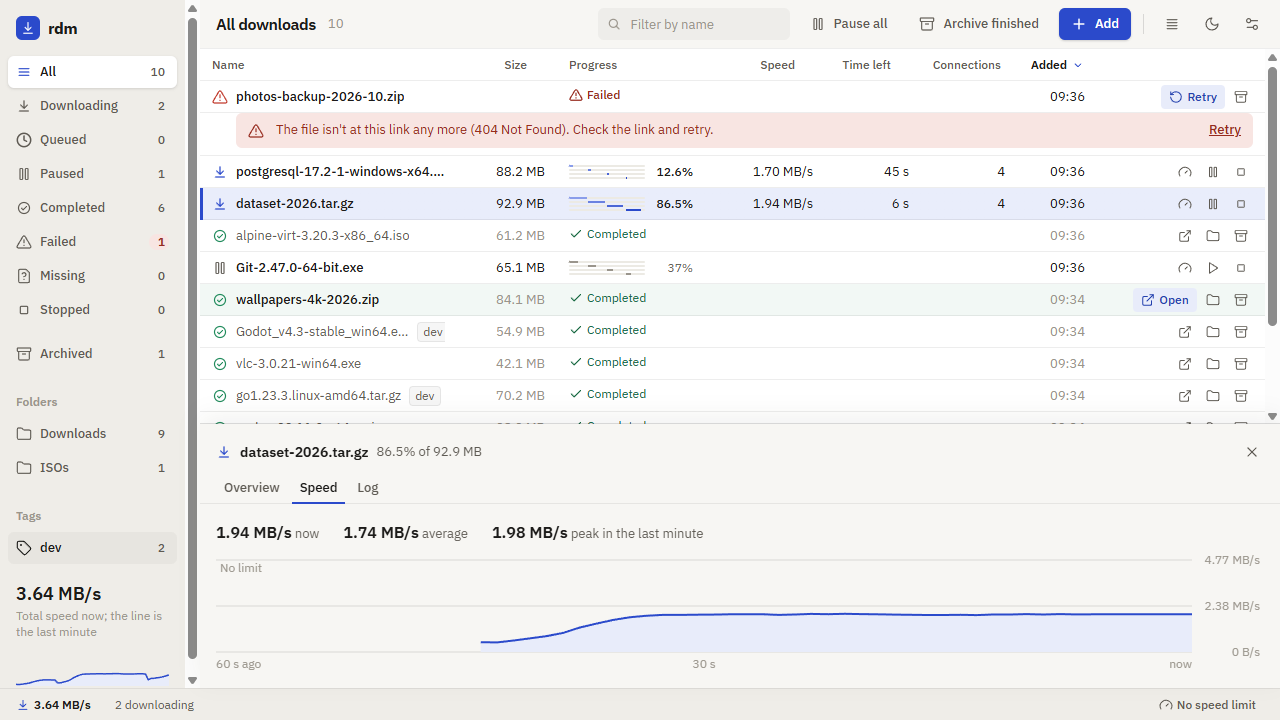
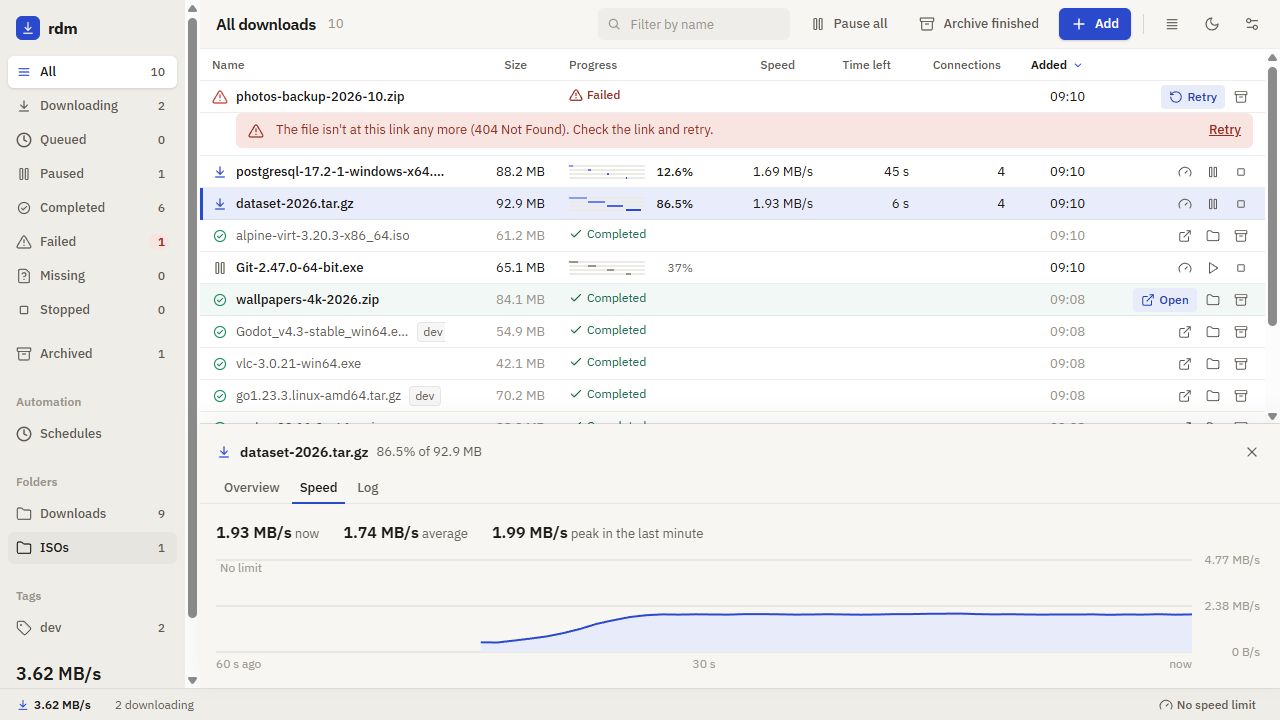
docs: regenerate screenshots with the Schedules view
Regenerate main-light, main-dark and details (new Automation group) and add
schedules.png. Seed the Schedules shot's rules in MiB and reload the page
after seeding so the view shows them.

diff --git a/gui/e2e/screenshots/schedules.shots.ts b/gui/e2e/screenshots/schedules.shots.ts
@@ -6,7 +6,7 @@
 import { mkdirSync } from "node:fs";
 import path from "node:path";
 import { $, browser } from "@wdio/globals";
-import { baseUrl, invoke } from "../helpers";
+import { baseUrl, invoke, settingsButton, waitForGone } from "../helpers";
 
 const outDir = process.env.RDM_SHOTS_OUT!;
 const WEEKDAYS = ["mon", "tue", "wed", "thu", "fri"];
@@ -44,7 +44,7 @@ describe("schedules screenshot", () => {
             name: "Daytime cap",
             enabled: true,
             window: { start: "08:00", end: "18:00", days: WEEKDAYS },
-            limit: 5 * 1000 * 1000,
+            limit: 5 * 1024 * 1024,
           },
         ],
       },
@@ -68,6 +68,18 @@ describe("schedules screenshot", () => {
         startAt,
       });
     }
+    // invoke() doesn't wait for the command, and the view reads the rules when it opens: give
+    // them a moment, then open the view.
+    await browser.pause(1000);
+    await settingsButton().click();
+    const theme = $('[role="group"][aria-label="Theme"]');
+    await theme.waitForDisplayed();
+    await theme.$("button=Light").click();
+    await settingsButton().click();
+    await waitForGone('[role="group"][aria-label="Theme"]');
+    // The page read its rules and actions at startup; reload so it shows the ones seeded above.
+    await browser.refresh();
+    await $('[data-testid="add-button"]').waitForDisplayed();
     await $('[data-testid="schedules-link"]').click();
     await $('[data-testid="schedules-view"]').waitForDisplayed();
     await browser.execute(() => {
